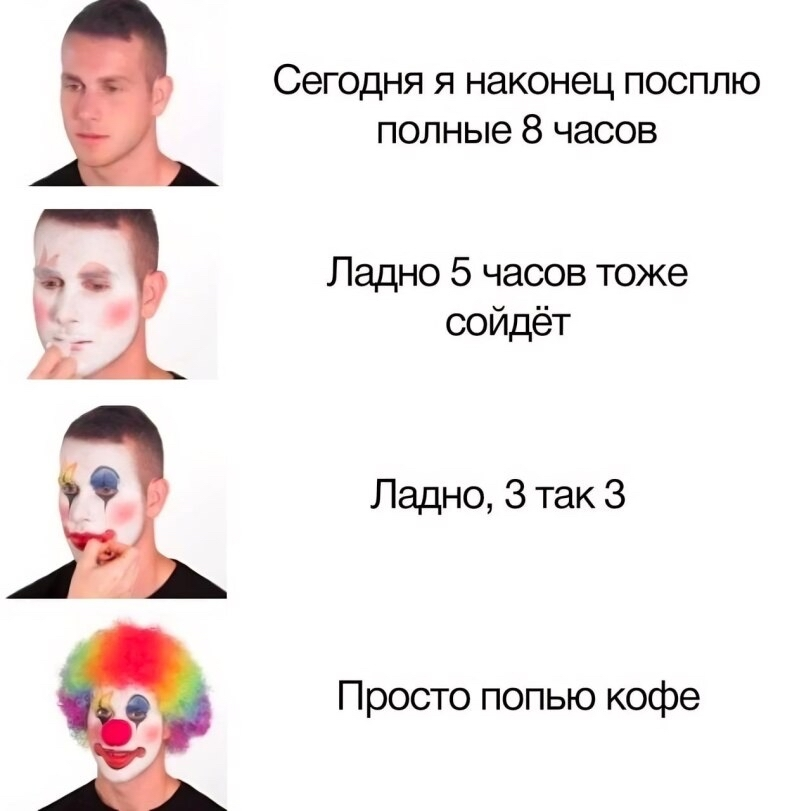
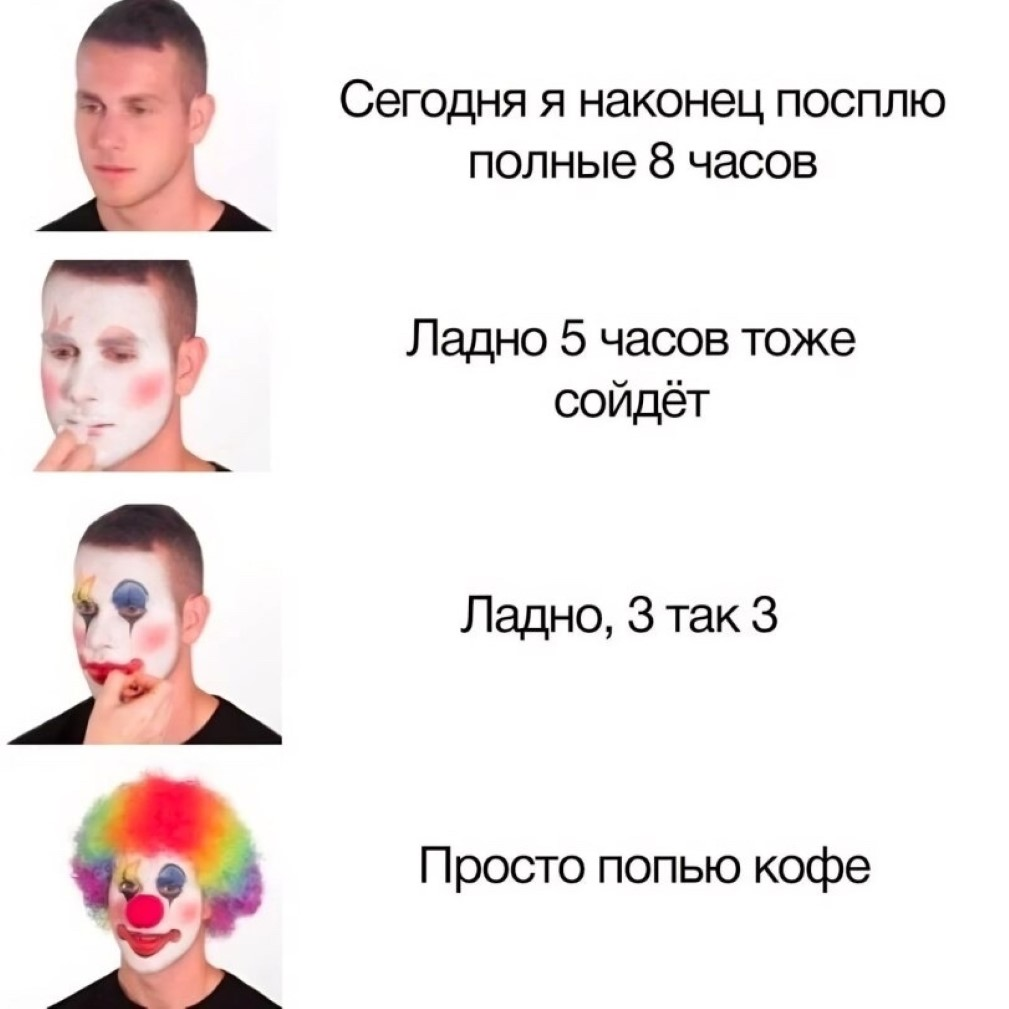
fix: fix mems size (Mon, Sep 18, 2023  1:31:49 AM)

diff --git a/style.css b/style.css
@@ -5,19 +5,19 @@
 body {
     font-family: "Forum";
     font-weight: 400;
-    font-size: 3vh;
+    font-size: 1rem;
     background-color: #25282a;
 }
 
 .wrapper {
     display: flex;
+    padding: 0 2rem;
 }
 
 .slider {
     display: flex;
     flex-direction: column;
     margin: auto;
-    padding: 5vh 5vh 0;
     max-width: 123vh;
     overflow: hidden;
     gap: 3vh;
@@ -32,7 +32,6 @@ body {
 
 img {
     max-width: 100%;
-    margin-right: 5vh;
 }
 
 .slider_controls {
@@ -97,15 +96,15 @@ label:has(input:checked) .radio {
 }
 
 .slider:has(#slide2:checked) .slider_images {
-    transform: translateX(calc(-100% - 5vh));
+    transform: translateX(calc(-100%));
 }
 
 .slider:has(#slide3:checked) .slider_images {
-    transform: translateX(calc(-200% - 10vh));
+    transform: translateX(calc(-200%));
 }
 
 .slider:has(#slide4:checked) .slider_images {
-    transform: translateX(calc(-300% - 15vh));
+    transform: translateX(calc(-300%));
 }
 
 .slider:has(#slide1:checked) #title1 {

diff --git a/index.html b/index.html
@@ -14,8 +14,8 @@
         <div class="slider">
             <div class="slider_images">
                 <img src="./assets/img/mem1.jpg" alt="mem1">
-                <img src="./assets/img/mem2.png" alt="mem2">
-                <img src="./assets/img/mem3.png" alt="mem3">
+                <img src="./assets/img/mem2.jpg" alt="mem2">
+                <img src="./assets/img/mem3.jpg" alt="mem3">
                 <img src="./assets/img/mem4.jpg" alt="mem4">
             </div>
             <div class="slider_controls">
